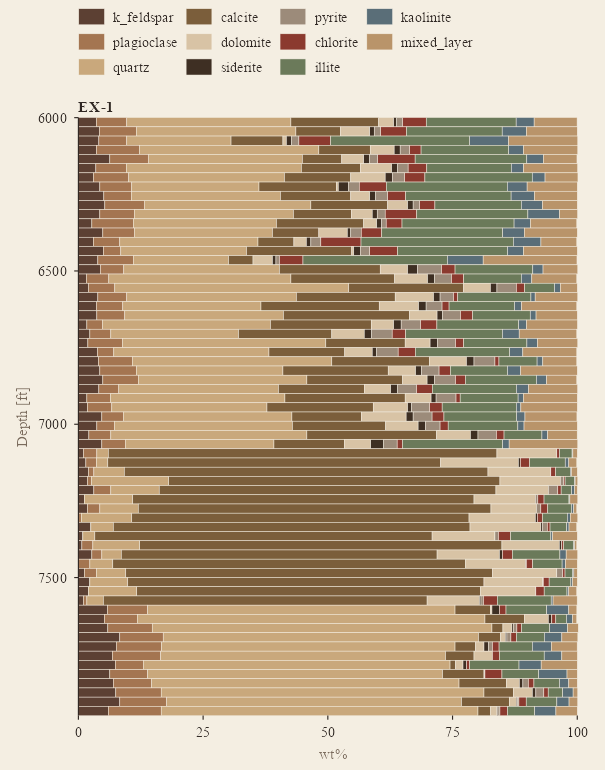
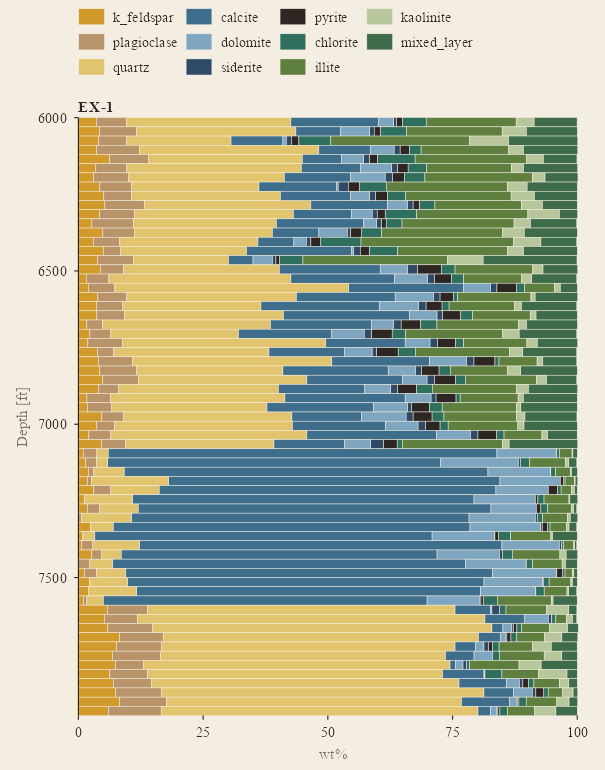
0.2.1: colour separation - multi-hue categorical and sequential palettes, mineral-keyed fills
Categorical palette rotates through eleven parchment-muted hues; continuous
scales default to the multi-hue scholar ramp (tide, divergent added);
gc_mineral_colours / scale_fill_minerals colour XRD by kind;
plot_stacked_depth(fill_scale=); section end labels no longer clip.

diff --git a/README.md b/README.md
@@ -144,22 +144,32 @@ well, coloured by formation.*
 | **Depth** | `plot_depth_profile()`, `plot_depth_heatmap()`, `plot_section()` (IDW on a distance–depth grid), `plot_stacked_depth()`, `plot_mineralogy()`, `plot_pam()` |
 | **Plan** | `plot_map()` (per-hole summary over a depth window, IDW surface + contours), `gc_idw()` |
 | **Cross-plots** | `plot_ternary()`, `plot_kerogen()` (HI–OI, HI–Tmax with maturity windows, S2–TOC) |
-| **Look** | `theme_gc()`, `scale_colour_gc()` / `scale_fill_gc()` / `..._gc_c()`, `gc_colours()`, `gc_pal()` |
+| **Look** | `theme_gc()`, `scale_colour_gc()` / `scale_fill_gc()` / `..._gc_c()`, `scale_fill_minerals()`, `gc_colours()`, `gc_pal()`, `gc_mineral_colours` |
 | **Data** | `gc_example` (12 holes), `gc_cuttings` (one cuttings well + its workbook), `gc_minerals`, `gc_oxides`, `gc_sra_analytes`, `gc_pam_analytes` |
 
 Every plot returns a `ggplot` you can keep styling.
 
 ## The look
 
-Plots are drawn with `theme_gc()`: a parchment page, brown ink, a
-tan-to-espresso palette with a rust accent, serif type — a sibling of the
-*academic* style in [econscape](https://github.com/mjorden/econscape) —
-with Tufte's restraint layered on: no panel fill behind the data, no
-gridlines unless asked for, hairline axes with outward ticks, muted axis
-titles, a legend that reads as a row of labels, and on depth profiles of two
-or three holes the hole names written at the bottom of each trace instead of
-a legend. `theme_gc(grid = "y", panel = "parchment")` moves it back toward
-econscape; `gc_colours()` and `gc_pal()` expose the palette.
+Plots are drawn with `theme_gc()`: a parchment page, brown ink, serif type —
+a sibling of the *academic* style in
+[econscape](https://github.com/mjorden/econscape) — with Tufte's restraint
+layered on: no panel fill behind the data, no gridlines unless asked for,
+hairline axes with outward ticks, muted axis titles, a legend that reads as
+a row of labels, and on depth profiles of two or three holes the hole names
+written at the bottom of each trace instead of a legend.
+
+The furniture being monochrome is what lets the data carry colour. The
+categorical palette rotates through distinct hues muted for parchment
+(espresso, rust, slate, moss, ochre, plum, teal, …); continuous scales use
+the multi-hue `"scholar"` ramp — sand through ochre and rust to plum and
+ink, luminance falling monotonically — so that both the level and the
+gradient of a map read (`"tide"` for a cool version, `"divergent"` for
+anomalies about a centre); and XRD minerals are coloured by kind
+(`gc_mineral_colours`: silicates warm, carbonates blue, clays green,
+sulfides dark). `theme_gc(grid = "y", panel = "parchment")` moves the
+furniture back toward econscape; `gc_colours()` and `gc_pal()` expose the
+palettes.
 
 ## Notes on the science
 
@@ -185,7 +195,7 @@ econscape; `gc_colours()` and `gc_pal()` expose the palette.
 ## Development
 
 ```r
-devtools::load_all(); testthat::test_dir("tests/testthat")   # 210 tests
+devtools::load_all(); testthat::test_dir("tests/testthat")   # 219 tests
 source("data-raw/make_example.R")                               # rebuild gc_example
 source("data-raw/make_cuttings.R")                              # rebuild gc_cuttings + its workbook
 pkgdown::build_site()                                           # the documentation site

diff --git a/NEWS.md b/NEWS.md
@@ -1,3 +1,16 @@
+# geochemR 0.2.1
+
+* **Colour separation.** The furniture stays monochrome; the data no longer
+  is. The categorical palette rotates through eleven distinct hues muted for
+  parchment (espresso, rust, slate, moss, ochre, plum, teal, tan, indigo,
+  brick, sage); continuous scales default to the multi-hue `"scholar"` ramp
+  (sand through ochre and rust to plum and ink, luminance falling
+  monotonically), with `"tide"` (cool) and `"divergent"` (slate-parchment-
+  rust) alongside the single-hue ramps; `gc_mineral_colours` /
+  `scale_fill_minerals()` colour XRD minerals by kind (silicates warm,
+  carbonates blue, clays green, sulfides dark) so stacked mineralogy reads at
+  a glance. `plot_stacked_depth(fill_scale = )`.
+
 # geochemR 0.2.0
 
 * **Laboratory workbook reader.** `read_workbook()` reads the multi-method
